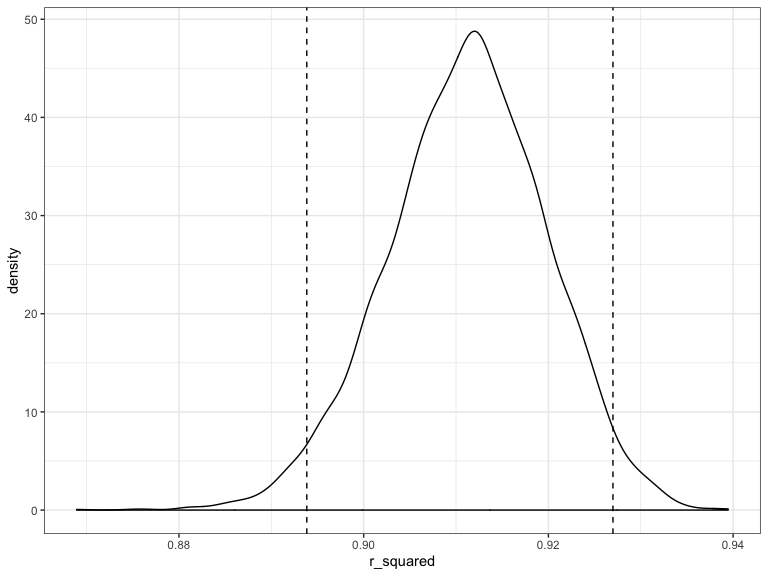
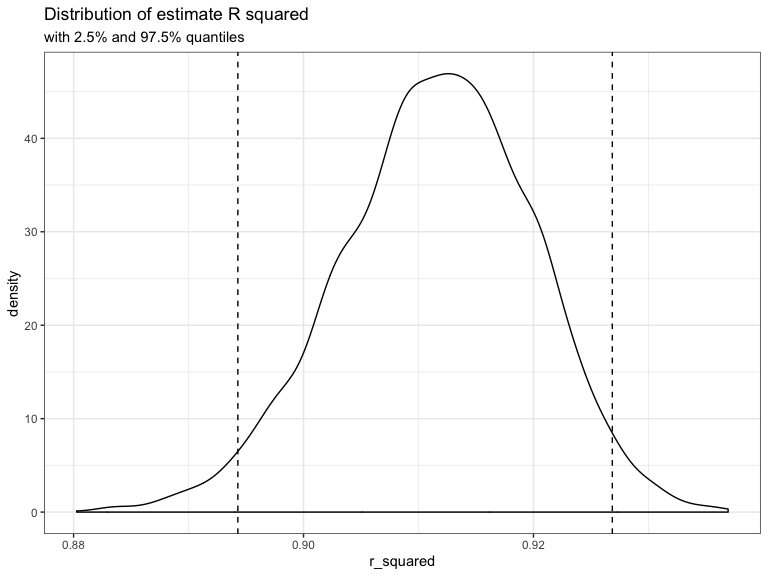
comment update

diff --git a/p8105_hw6_gl2677.md b/p8105_hw6_gl2677.md
@@ -10,49 +10,45 @@ birthweight = read_csv("data/birthweight.csv") %>%
   mutate(babysex = as.factor(babysex),
          frace  = as.factor(frace),
          malform = as.factor(malform),
-         mrace = as.factor(mrace))
+         mrace = as.factor(mrace)) %>% 
+  mutate(babysex = fct_infreq(babysex),
+         frace  = fct_infreq(frace),
+         malform = fct_infreq(malform),
+         mrace = fct_infreq(mrace))
 ```
 
 ``` r
-my_fit = lm(bwt ~ babysex + blength + gaweeks + bhead,
+my_fit = lm(bwt ~ babysex + blength + gaweeks + bhead 
+            + delwt + smoken ,
             data = birthweight)
+
 birthweight %>% 
   add_residuals(my_fit) %>% 
   add_predictions(my_fit) %>% 
   ggplot(aes(x = pred, y = resid)) +
   geom_point() +
-  geom_line(aes(y = 0),  color = "red")
+  geom_line(aes(y = 0),  color = "red") +
+  labs(x = "fitted value",
+       y = "residual",
+       title = "Residuals against fitted values")
 ```
 
 <img src="p8105_hw6_gl2677_files/figure-gfm/residual plot-1.png" width="90%" />
 
-``` r
-birthweight %>% 
-  add_residuals(initial_fit) %>% 
-  add_predictions(initial_fit) %>% 
-  ggplot(aes(x = pred, y = resid)) +
-  geom_point() +
-  geom_line(aes(y = 0),  color = "red")
-```
+Firsty I used all predictors to fit the regression, than I remove the
+predictors which are non-significant. 8 variables show the highest
+significance and I use them to fit the final regression. The model I use
+only contain the main effect of the baby’s sex, baby’s length at birth,
+baby’s head circumference at birth (centimeters), gestational age in
+weeks, mother’s weight at delivery (pounds) and average number of
+cigarettes smoked per day during pregnancy.
 
-<img src="p8105_hw6_gl2677_files/figure-gfm/residual plot-2.png" width="90%" />
-
-Firsty I used anava Global F test to find the predictors with
-significant effect on the birthweight. 12 variables show the
-significance. Then base on the common sense, and to make the model
-simpler, I only choose 4 variables which are highly associated with the
-birthweight. The model I use only contain the main effect of the baby’s
-sex, baby’s length at birth, baby’s head circumference at birth
-(centimeters) and gestational age in weeks.
-
-``` r
-fit1 = lm(bwt ~ blength + gaweeks, data = birthweight)
-fit2 = lm(bwt ~ bhead * blength * babysex, data = birthweight)
-```
+The residual plot shows the residuals roughly even distribute around
+zero, but there are more variance when the fitted values increase.
 
 ``` r
 cv_df = 
-  crossv_mc(birthweight, 100, test = 0.2) %>%
+  crossv_mc(birthweight, 5000, test = 0.2) %>%
   mutate(
     train = map(train, as_tibble),
     test = map(test, as_tibble)) %>% 
@@ -61,7 +57,7 @@ cv_df =
                                      data = .x)),
     fit2_model = map(.x = train, ~lm(bwt ~ bhead * blength * babysex, 
                                      data = .x)),
-    my_fit_model = map(.x = train, ~lm(bwt ~ babysex + blength + gaweeks + bhead,
+    my_fit_model = map(.x = train, ~lm(bwt ~ babysex + blength + gaweeks + bhead + delwt + smoken,
                                      data = .x))
     ) %>% 
     mutate(
@@ -81,15 +77,18 @@ cv_df %>%
     values_to = "rmse",
     names_prefix = "rmse_") %>%
   mutate(model = fct_inorder(model)) %>%
-  ggplot(aes(x = model, y = rmse)) + geom_violin()
+  ggplot(aes(x = model, y = rmse)) + 
+  geom_violin() + 
+  labs(title = "Distribution of root mean squared errors(rmse) against different models")
 ```
 
 <img src="p8105_hw6_gl2677_files/figure-gfm/rmse plot-1.png" width="90%" />
 
-From the distribution of RMSE values for each candidate model. The
-variance in prediction error of fit1 is larggest, and that of fit2 and
+From the distribution of RMSE values for each candidate model, the
+variance in prediction error of fit1 (`bwt ~ blength + gaweeks`) is
+larggest, and that of fit2(`bwt ~ bhead * blength * babysex`) and
 my\_fit is quite similar. My fit model `bwt ~ babysex + blength +
-gaweeks + bhead` is the best among three models.
+gaweeks + bhead + delwt + smoken` is the best among three models.
 
 ## Problem 2
 
@@ -134,7 +133,9 @@ results %>%
   geom_vline(aes(xintercept = results %>% pull(r_squared) %>% quantile(probs = 0.025)),
              linetype = "dashed") +
   geom_vline(aes(xintercept = results %>% pull(r_squared) %>% quantile(probs = 0.975)),
-             linetype = "dashed")
+             linetype = "dashed") +
+  labs(title = "Distribution of estimate R squared", 
+       subtitle = "with 2.5% and 97.5% quantiles")
 ```
 
 <img src="p8105_hw6_gl2677_files/figure-gfm/plot estimate-1.png" width="90%" />
@@ -146,7 +147,10 @@ results %>%
   geom_vline(aes(xintercept = results %>% pull(log) %>% quantile(probs = 0.025)),
              linetype = "dashed") +
   geom_vline(aes(xintercept = results %>% pull(log) %>% quantile(probs = 0.975)),
-             linetype = "dashed")
+             linetype = "dashed") +
+  labs(title = "Distribution of estimate log(beta_0 * beta_1)", 
+       subtitle = "with 2.5% and 97.5% quantiles",
+       x = "log(beta_0 * beta_1)")
 ```
 
 <img src="p8105_hw6_gl2677_files/figure-gfm/plot estimate-2.png" width="90%" />
@@ -163,5 +167,5 @@ results %>%
 
   - The 95% confidence interval for `r_squared` is (0.894, 0.927)
 
-  - The 95% confidence interval for `log(beta_0*beta_1)` is (1.966,
-    2.059)
+  - The 95% confidence interval for `log(beta_0*beta_1)` is (1.965,
+    2.057)
